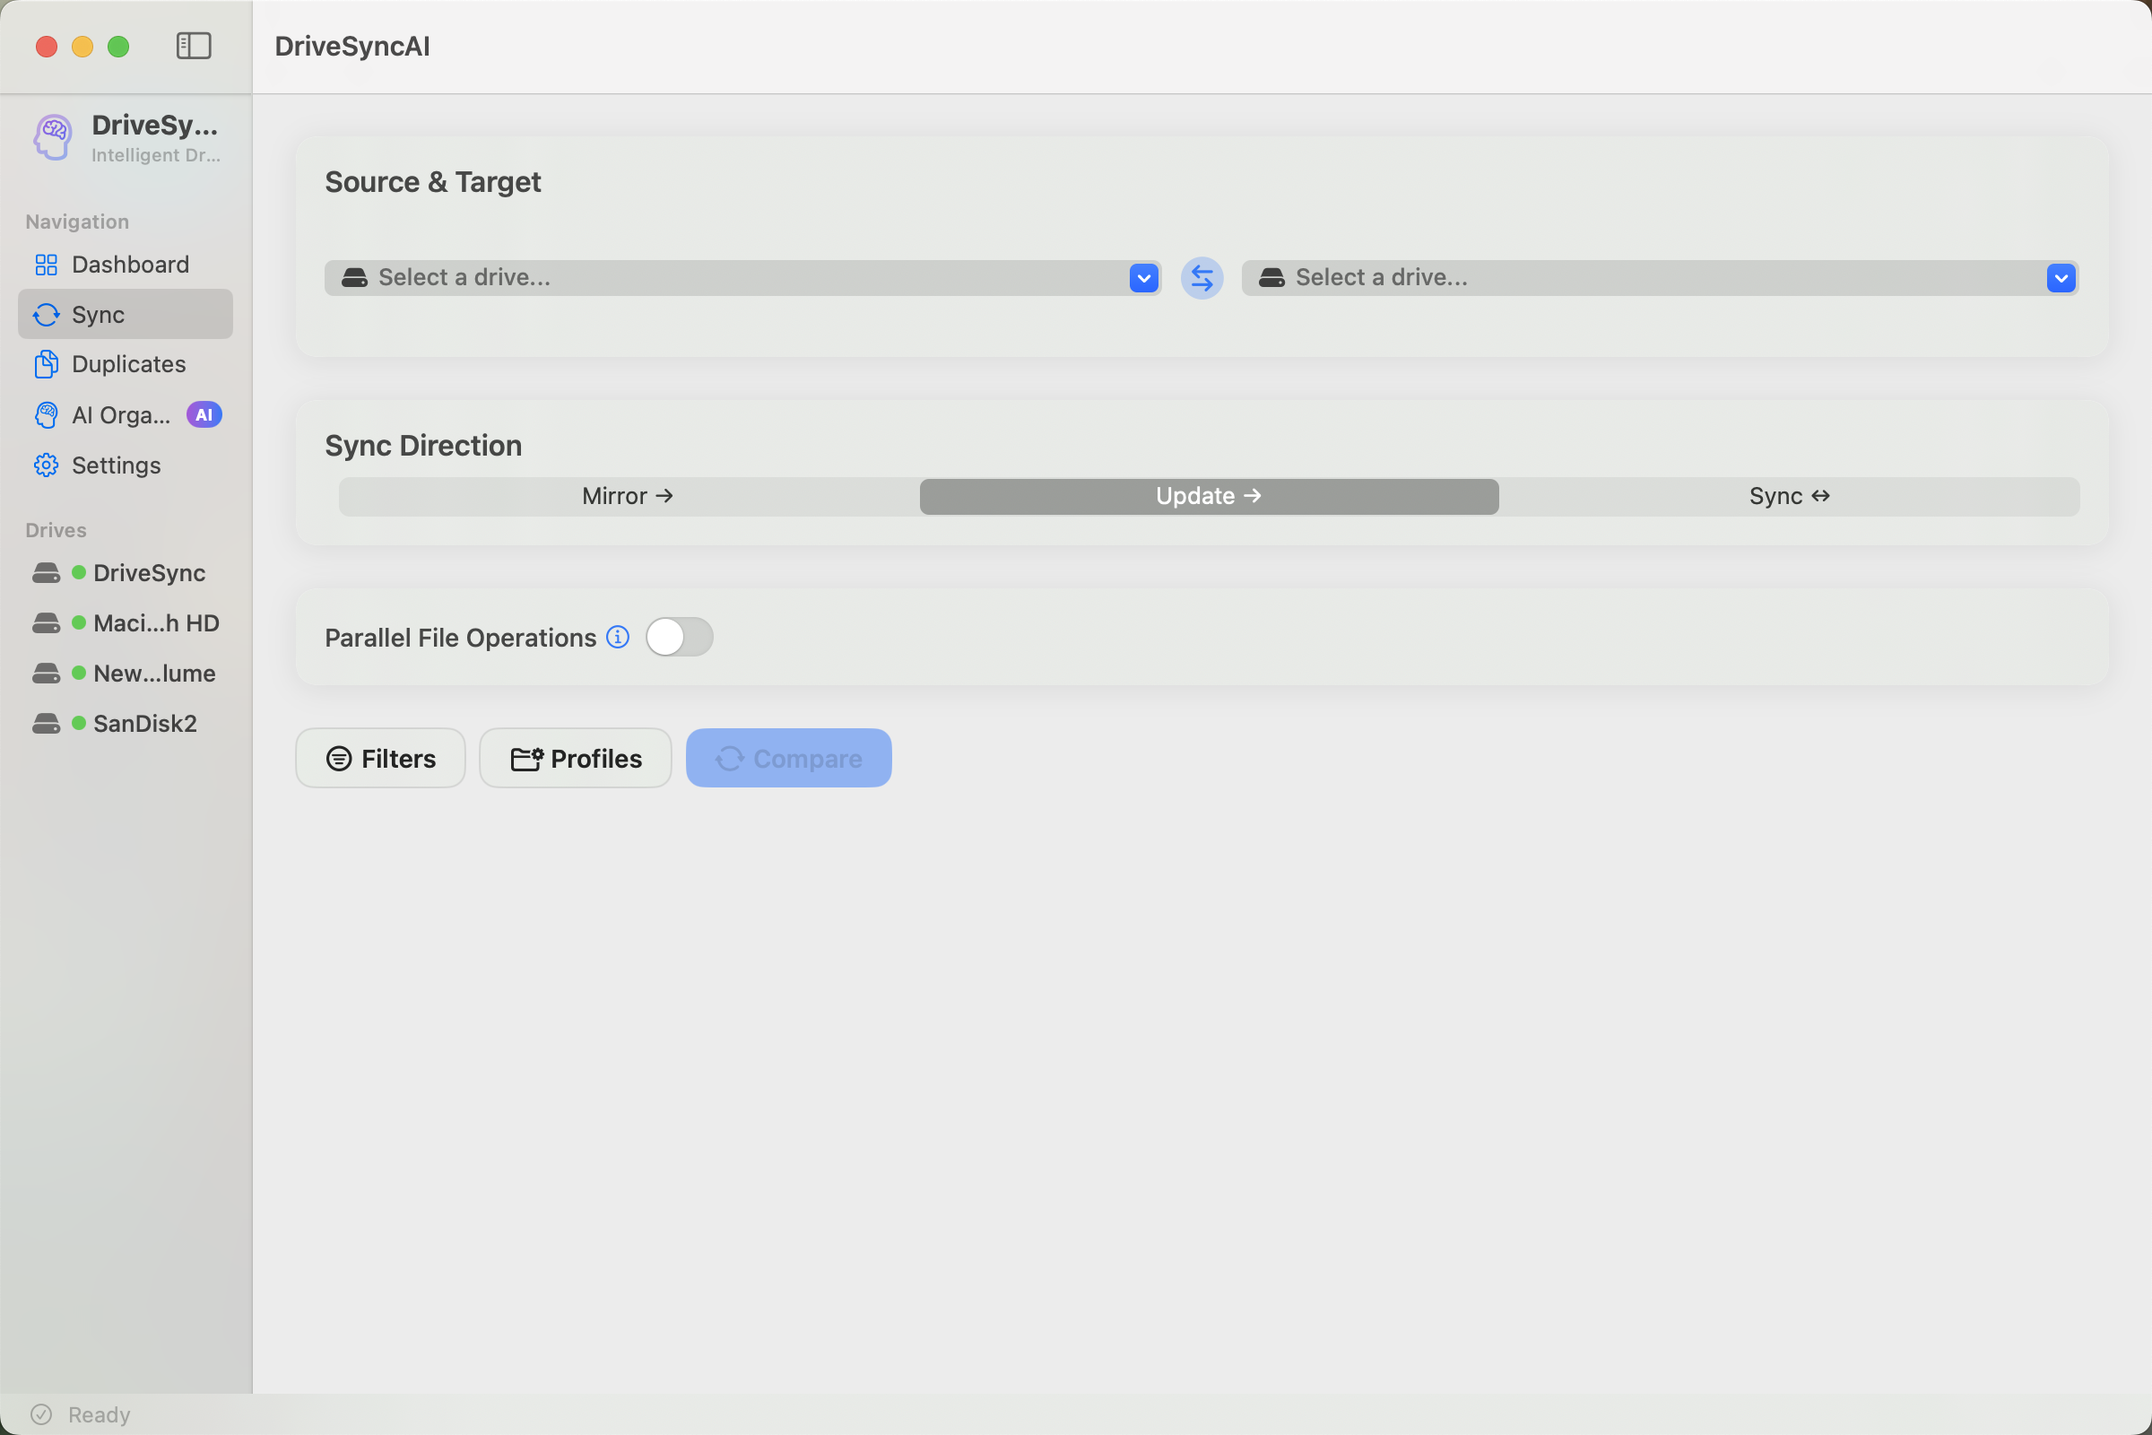
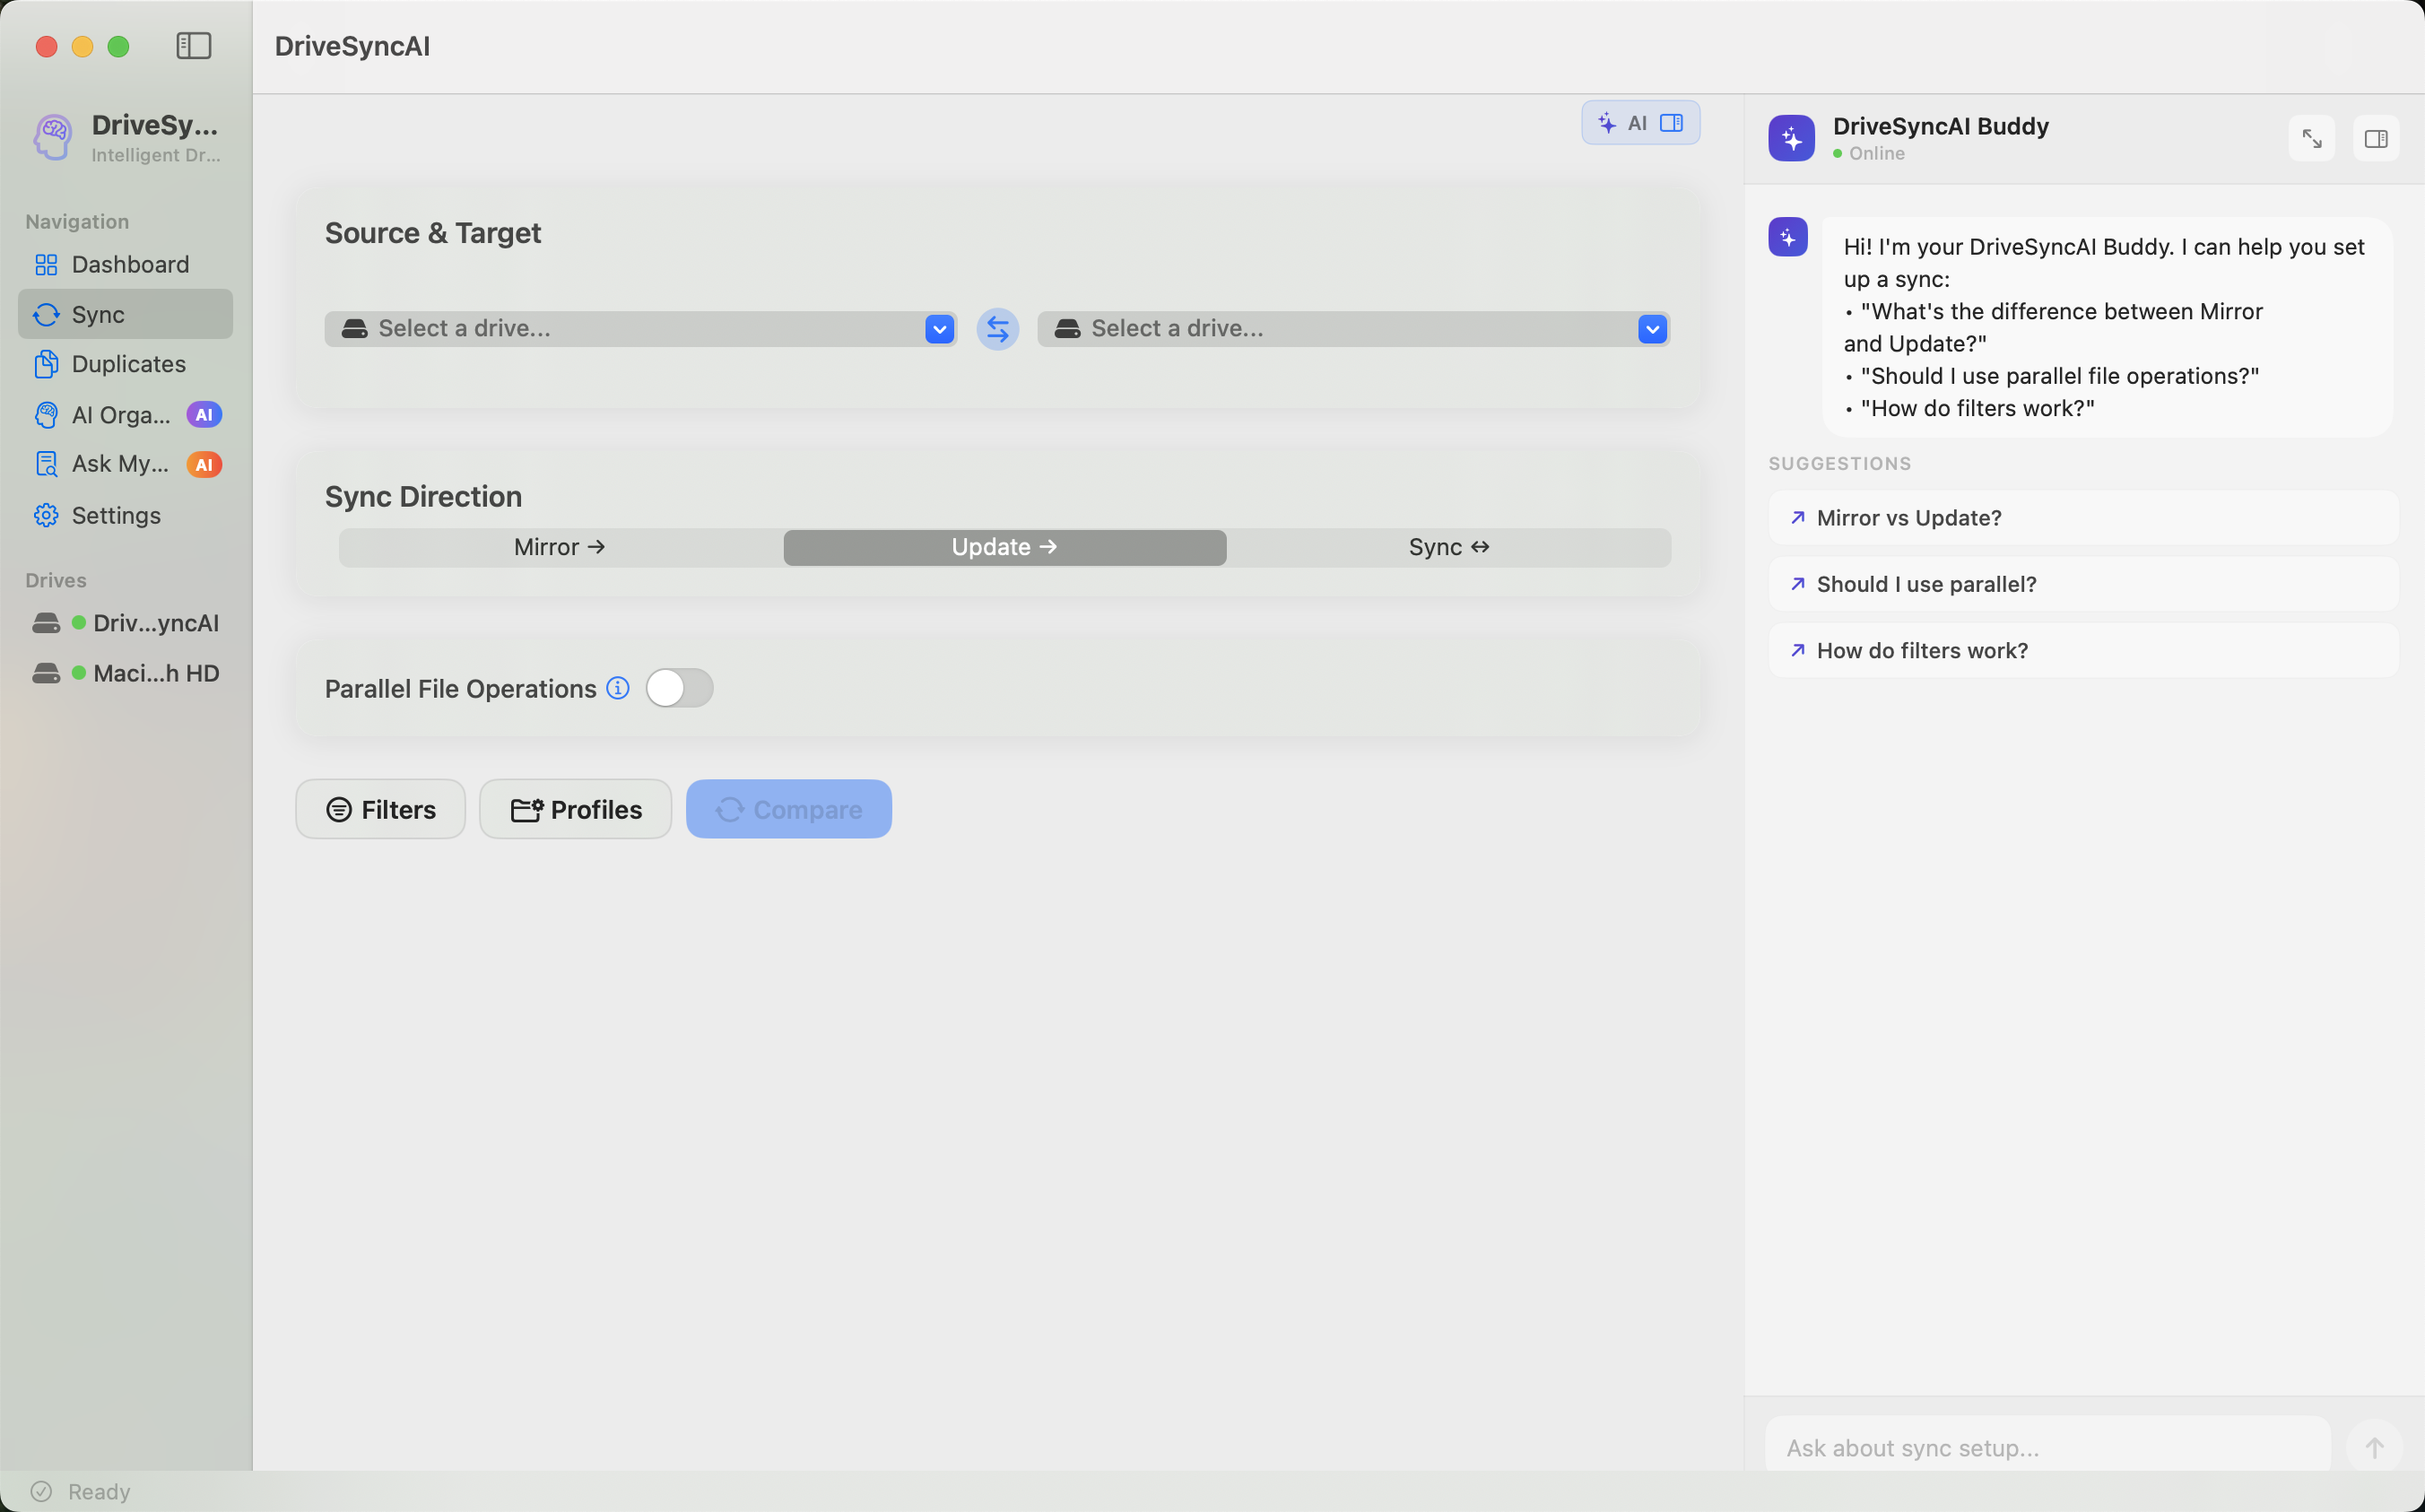
Website and docs: fresh screenshots, Ask My Docs in gallery, copy tweaks
- New window-capture screenshots for all main tabs (Dashboard, Sync, Duplicates, AI Organize, Ask My Docs, Settings)
- Add Ask My Docs screenshot and gallery tab on website
- Replace em dashes with commas/periods in docs and README
- Sync docs/images and screenshots; update README screenshot captions

diff --git a/docs/index.html b/docs/index.html
@@ -3,11 +3,11 @@
 <head>
   <meta charset="UTF-8">
   <meta name="viewport" content="width=device-width, initial-scale=1.0">
-  <title>DriveSyncAI — AI-Powered Drive Manager for macOS</title>
+  <title>DriveSyncAI: AI-Powered Drive Manager for macOS</title>
   <meta name="description" content="Sync, deduplicate, and organize your files with AI. Native macOS app. Privacy-first. Free for personal use.">
   <meta name="keywords" content="macOS, drive sync, file organizer, duplicate finder, AI, local AI, llama.cpp, no install required">
   <meta name="author" content="Amit Chorasiya">
-  <meta property="og:title" content="DriveSyncAI — AI-Powered Drive Manager for macOS">
+  <meta property="og:title" content="DriveSyncAI: AI-Powered Drive Manager for macOS">
   <meta property="og:description" content="Sync, deduplicate, and organize your files with AI. Native macOS. Privacy-first. Free.">
   <meta property="og:type" content="website">
   <meta property="og:image" content="images/dashboard_buddy.png">
@@ -81,7 +81,7 @@
       </h1>
       <p class="hero-subtitle reveal">
         Sync smarter. Find duplicates instantly. An AI buddy on every screen to help you manage files in plain English.<br>
-        Privacy-first — your data never leaves your Mac.
+        Privacy-first: your data never leaves your Mac.
       </p>
       <div class="hero-actions reveal">
         <a href="#download" class="btn btn-primary">
@@ -181,7 +181,7 @@
       <div class="section-header reveal">
         <span class="section-tag">FEATURES</span>
         <h2 class="section-title">Everything you need.<br><span class="gradient-text">Nothing you don't.</span></h2>
-        <p class="section-desc">Three powerful tools — unified by a safety-first architecture that never loses a file.</p>
+        <p class="section-desc">Three powerful tools, unified by a safety-first architecture that never loses a file.</p>
       </div>
 
       <div class="features-grid">
@@ -223,7 +223,7 @@
             <svg width="32" height="32" viewBox="0 0 24 24" fill="none" stroke="currentColor" stroke-width="1.5" stroke-linecap="round" stroke-linejoin="round"><path d="M12 2L2 7l10 5 10-5-10-5z"/><path d="M2 17l10 5 10-5"/><path d="M2 12l10 5 10-5"/></svg>
           </div>
           <h3>AI Organization</h3>
-          <p>Guided wizard configures folder structure, naming, and cleanup. After scanning, an interactive AI chatbot refines your plan in real time — add moves, change destinations, exclude files, all in plain English.</p>
+          <p>Guided wizard configures folder structure, naming, and cleanup. After scanning, an interactive AI chatbot refines your plan in real time: add moves, change destinations, exclude files, all in plain English.</p>
           <div class="feature-tags">
             <span>Preferences Wizard</span>
             <span>Interactive AI Chat</span>
@@ -240,7 +240,7 @@
             <svg width="32" height="32" viewBox="0 0 24 24" fill="none" stroke="currentColor" stroke-width="1.5" stroke-linecap="round" stroke-linejoin="round"><path d="M21 15a2 2 0 0 1-2 2H7l-4 4V5a2 2 0 0 1 2-2h14a2 2 0 0 1 2 2z"/><path d="M8 9h2"/><path d="M14 9h2"/><path d="M9 13c.6.9 1.6 1.5 3 1.5s2.4-.6 3-1.5"/></svg>
           </div>
           <h3>DriveSyncAI Buddy</h3>
-          <p>An AI assistant that lives on every screen. Ask it anything — sync setup tips, scan configuration, duplicate selection, file organization. Use natural language to control actions: "sync only photos," "select duplicates larger than 10MB," "move invoices to Finance." Always present, always context-aware.</p>
+          <p>An AI assistant that lives on every screen. Ask it anything: sync setup tips, scan configuration, duplicate selection, file organization. Use natural language to control actions: "sync only photos," "select duplicates larger than 10MB," "move invoices to Finance." Always present, always context-aware.</p>
           <div class="feature-tags">
             <span>Every Tab</span>
             <span>Natural Language</span>
@@ -272,7 +272,7 @@
             <svg width="32" height="32" viewBox="0 0 24 24" fill="none" stroke="currentColor" stroke-width="1.5" stroke-linecap="round" stroke-linejoin="round"><path d="M12 22s8-4 8-10V5l-8-3-8 3v7c0 6 8 10 8 10z"/><path d="M9 12l2 2 4-4"/></svg>
           </div>
           <h3>Privacy First</h3>
-          <p>AI runs on your Mac via a built-in engine — no Ollama, no Python, no installs. File contents never leave your device. Cloud providers only receive compact metadata summaries.</p>
+          <p>AI runs on your Mac via a built-in engine. No Ollama, no Python, no installs. File contents never leave your device. Cloud providers only receive compact metadata summaries.</p>
           <div class="feature-tags">
             <span>Built-in AI</span>
             <span>Keychain Storage</span>
@@ -304,7 +304,7 @@
       <div class="section-header reveal">
         <span class="section-tag">AI ENGINE</span>
         <h2 class="section-title">Three tiers of intelligence.<br><span class="gradient-text">One seamless pipeline.</span></h2>
-        <p class="section-desc">85% of files organized without a single AI token. Only ambiguous files reach the LLM — as metadata, never contents.</p>
+        <p class="section-desc">85% of files organized without a single AI token. Only ambiguous files reach the LLM, as metadata, never contents.</p>
       </div>
 
       <div class="pipeline reveal">
@@ -346,7 +346,7 @@
             <div class="tier-badge tier-badge-purple">15% of files</div>
           </div>
           <h3>AI Brain + Chat</h3>
-          <p>Compact metadata summaries sent to your chosen LLM. After analysis, an interactive chat lets you refine the plan conversationally — the AI modifies moves, destinations, and preferences in real time.</p>
+          <p>Compact metadata summaries sent to your chosen LLM. After analysis, an interactive chat lets you refine the plan conversationally. The AI modifies moves, destinations, and preferences in real time.</p>
           <div class="tier-bar" style="--width: 15%">
             <div class="tier-bar-fill tier-bar-purple"></div>
           </div>
@@ -414,7 +414,7 @@
         <div class="safety-card reveal">
           <div class="safety-number">01</div>
           <h4>Write-Ahead Journal</h4>
-          <p>Every operation logged before execution — survives crashes and power failures.</p>
+          <p>Every operation logged before execution. Survives crashes and power failures.</p>
         </div>
         <div class="safety-card reveal">
           <div class="safety-number">02</div>
@@ -460,6 +460,7 @@
           <button class="screenshot-tab" data-target="ss-sync">Sync</button>
           <button class="screenshot-tab" data-target="ss-duplicates">Duplicates</button>
           <button class="screenshot-tab" data-target="ss-ai">AI Organize</button>
+          <button class="screenshot-tab" data-target="ss-docs">Ask My Docs</button>
           <button class="screenshot-tab" data-target="ss-settings">Settings</button>
           <button class="screenshot-tab" data-target="ss-llm">LLM Settings</button>
           <button class="screenshot-tab" data-target="ss-models">Model Browser</button>
@@ -471,11 +472,12 @@
               <span></span><span></span><span></span>
             </div>
             <div class="screenshot-images">
-              <img id="ss-buddy" class="screenshot-img active" src="images/dashboard_buddy.png" alt="DriveSyncAI Buddy — Integrated AI Assistant" loading="lazy">
+              <img id="ss-buddy" class="screenshot-img active" src="images/dashboard_buddy.png" alt="DriveSyncAI Buddy, integrated AI assistant" loading="lazy">
               <img id="ss-dashboard" class="screenshot-img" src="images/dashboard.png" alt="Dashboard" loading="lazy">
               <img id="ss-sync" class="screenshot-img" src="images/sync.png" alt="Sync" loading="lazy">
               <img id="ss-duplicates" class="screenshot-img" src="images/duplicates.png" alt="Duplicates" loading="lazy">
               <img id="ss-ai" class="screenshot-img" src="images/ai_organize.png" alt="AI Organize" loading="lazy">
+              <img id="ss-docs" class="screenshot-img" src="images/ask_my_docs.png" alt="Ask My Docs, document Q&A and cross-reference" loading="lazy">
               <img id="ss-settings" class="screenshot-img" src="images/settings.png" alt="Settings" loading="lazy">
               <img id="ss-llm" class="screenshot-img" src="images/llm_settings.png" alt="LLM Settings" loading="lazy">
               <img id="ss-models" class="screenshot-img" src="images/ollama_models.png" alt="Ollama Model Browser" loading="lazy">
@@ -517,7 +519,7 @@
             <tr>
               <td class="row-label">Organization</td>
               <td>Manual drag-and-drop for hours</td>
-              <td class="highlight-col">DriveSyncAI Buddy on every screen — chat in plain English to organize, sync, and deduplicate</td>
+              <td class="highlight-col">DriveSyncAI Buddy on every screen. Chat in plain English to organize, sync, and deduplicate.</td>
             </tr>
             <tr>
               <td class="row-label">Safety</td>
@@ -581,7 +583,7 @@ git clone https://github.com/amitchorasiya/DriveSyncAI.git
 cd DriveSyncAI
 swift build && swift run
 
-<span class="code-comment"># AI is built-in — no Ollama, no extra setup needed</span>
+<span class="code-comment"># AI is built-in. No Ollama, no extra setup needed.</span>
 <span class="code-comment"># Accept the AI disclaimer in-app and it downloads everything automatically</span></code></pre>
         </div>
       </div>

diff --git a/docs/js/main.js b/docs/js/main.js
@@ -1,5 +1,5 @@
 /* ============================================================
-   DriveSyncAI — Futuristic Landing Page Scripts
+   DriveSyncAI landing page scripts
    ============================================================ */
 
 (function () {

diff --git a/docs/css/style.css b/docs/css/style.css
@@ -1,5 +1,5 @@
 /* ============================================================
-   DriveSyncAI — Futuristic Landing Page
+   DriveSyncAI landing page
    ============================================================ */
 
 :root {
